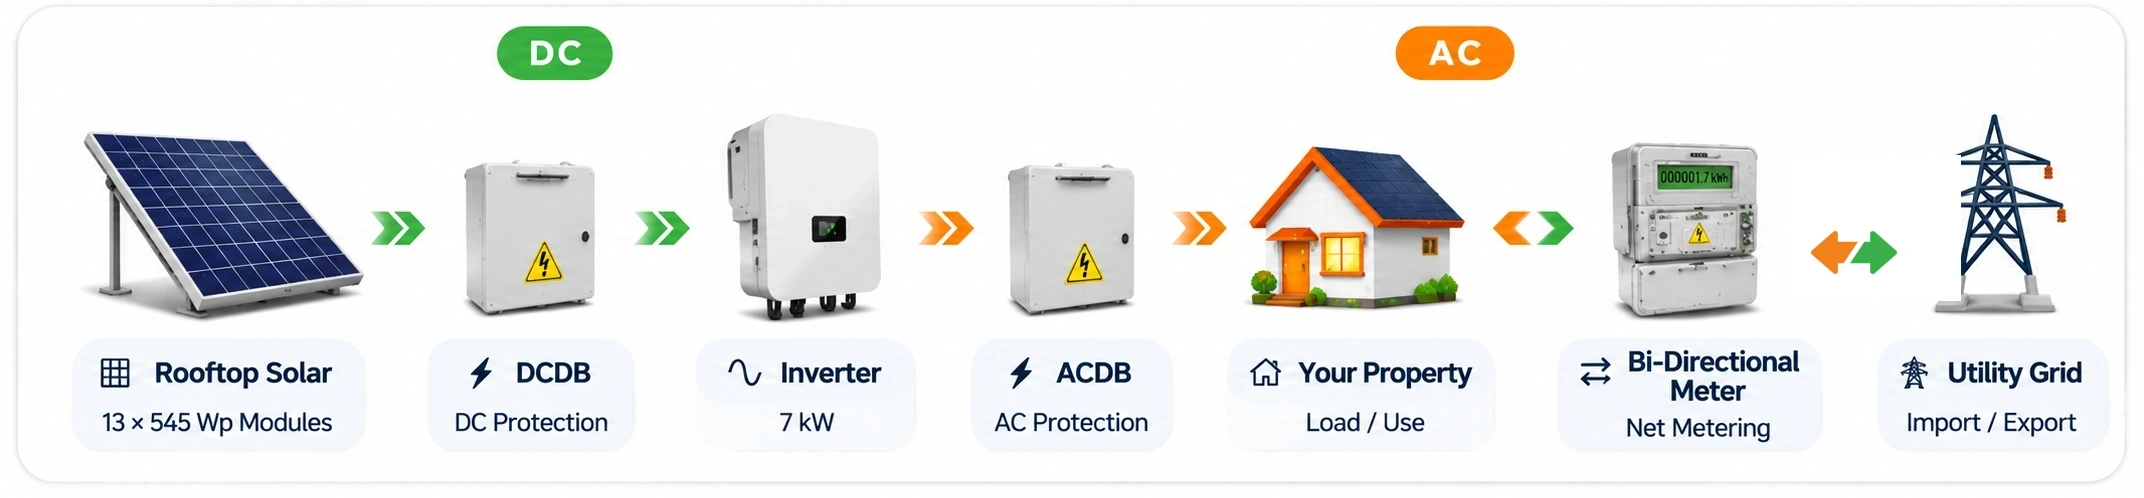
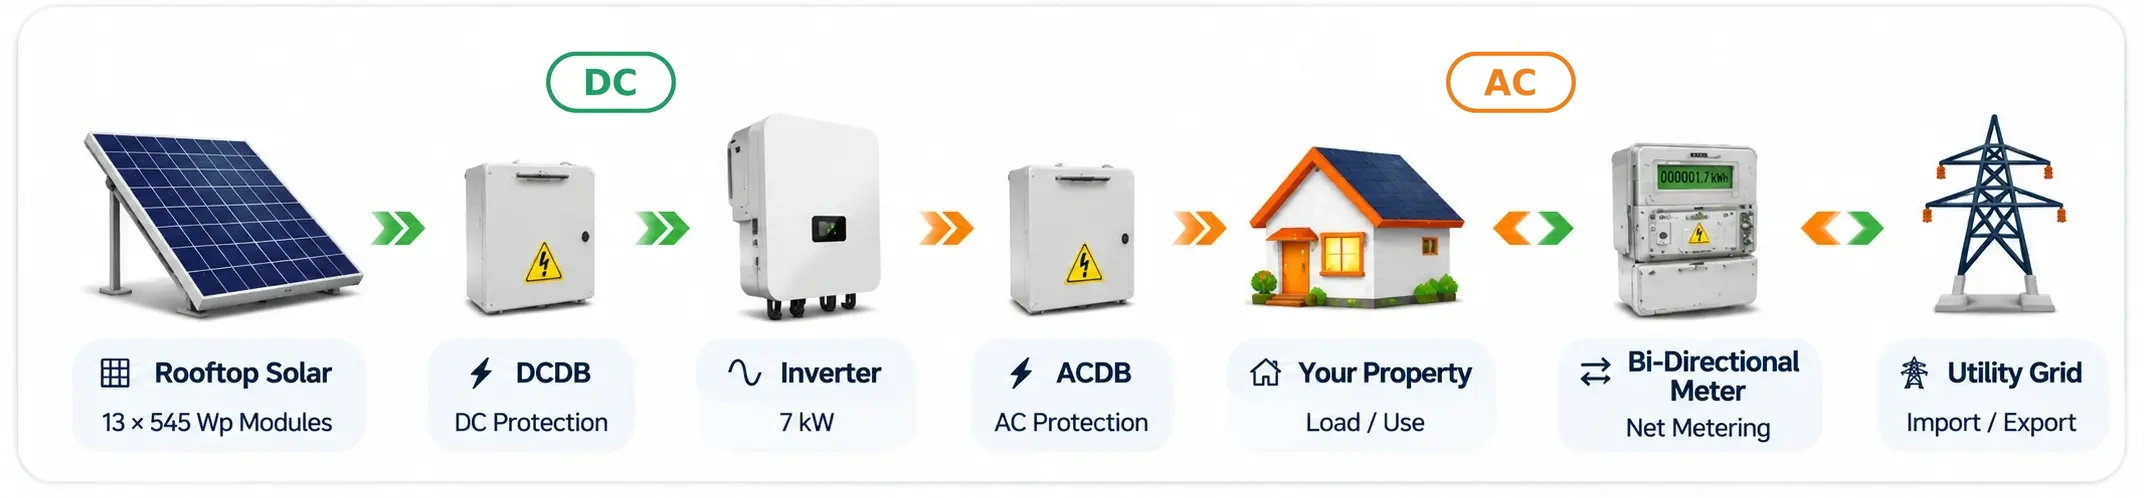
Page 5: outlined DC / AC pills, and the horns stay
Final pass on the overview:

- THE PILLS ARE OUTLINED NOW. They were solid fills. Green ring for DC, orange
  ring for AC, hollow centre, drawn at the same size as the fills they replace so
  they sit in the same place.
- THE HORNS. The last patch cleared x 1790..1960, and the tower's left insulators
  start at about 1960 - so it took them again. The clear is now x 1795..1910,
  which is inside the gap and nowhere near the tower. Both sides verified.
- THE CHEVRONS are his drawing, composited at his own scale (76px) into the same
  gap, replacing the ones the render shipped with so there is exactly one pair.
- No overlay markup or CSS is left behind: the pills and chevrons live in the
  raster now, so the page emits a single <img> and nothing else.

qa/page56-marks.test.cjs: 37 checks, including one that confirms the pills are
hollow in the artwork and that no overlay is emitted on top of it.

diff --git a/assets/js/proposal-v2.js b/assets/js/proposal-v2.js
@@ -125,21 +125,14 @@
     return 'check';
   }
   const OVERVIEW_ART = IMG + 'proposal/system-overview-flow.webp';
-  /* The owner supplied the finished overview - nodes, captions, the DC/AC
-     grouping and the Import / Export labels are all in the render - so the page
-     shows his artwork instead of a code-built diagram. Its own DC / AC badges sat
-     above the flow box and were cropped away with it, so the page draws those:
-     outlined pills in green and orange, as the reference he sent. The meter <-> grid
-     link he asked to improve is patched into the raster itself - it is artwork,
-     not markup, so it cannot be overlaid. */
-  const FLOW_MARKS =
-    '<img class="pv2-pill is-dc" src="' + IMG + 'proposal/flow-pill-dc.webp" alt="" aria-hidden="true" decoding="sync">' +
-    '<img class="pv2-pill is-ac" src="' + IMG + 'proposal/flow-pill-ac.webp" alt="" aria-hidden="true" decoding="sync">';
+  /* The owner supplied the finished overview - nodes, captions, the DC / AC pills
+     and the meter <-> grid chevrons are all painted into it now - so the page
+     shows the artwork and nothing else. The pills used to be overlaid as images
+     and the chevrons as drawn shapes; both are in the raster, so overlaying them
+     again would only duplicate them a few pixels off. */
   function overviewArt() {
     const alt = 'Solar to grid system overview';
-    return '<span class="pv2-ov-stack">' +
-      '<img class="pv2-ov-art" src="' + OVERVIEW_ART + '" alt="' + alt + '" decoding="sync">' +
-      FLOW_MARKS + '</span>';
+    return '<img class="pv2-ov-art" src="' + OVERVIEW_ART + '" alt="' + alt + '" decoding="sync">';
   }
   function flowDiagram(s, f) {
     const P = (root.CONTENT && root.CONTENT.pageTechSpec && root.CONTENT.pageTechSpec.diagramLabels) || {};

diff --git a/assets/css/proposal-v2.css b/assets/css/proposal-v2.css
@@ -117,14 +117,7 @@
 /* The owner's overview render carries its own rounded frame, so the box is just
    the width constraint: full bleed, no extra border or padding. */
 .pv2-solution .pv2-ov-box{margin-top:-1px;background:none;border:0;border-radius:0;box-shadow:none;padding:0;}
-.pv2-solution .pv2-ov-stack{position:relative;display:block;}
 .pv2-solution .pv2-ov-art{display:block;width:100%;height:auto;border-radius:12px;}
-/* The DC / AC pills, cut from the owner's own render so they are pixel-identical
-   to it, positioned as a percentage of the artwork so they hold at any width. */
-.pv2-solution .pv2-pill{position:absolute;transform:translate(-50%,-50%);
-  width:5.8%;height:auto;pointer-events:none;}
-.pv2-solution .pv2-pill.is-dc{left:26.2%;top:13%;}
-.pv2-solution .pv2-pill.is-ac{left:68.1%;top:13%;}
 .pv2 .pv2-flow{display:flex;align-items:flex-start;justify-content:space-between;}
 .pv2 .pv2-node{position:relative;flex:0 0 auto;width:66px;text-align:center;display:flex;flex-direction:column;align-items:center;}
 .pv2 .pv2-node.is-panel{width:98px;}.pv2 .pv2-node.is-house{width:76px;}
